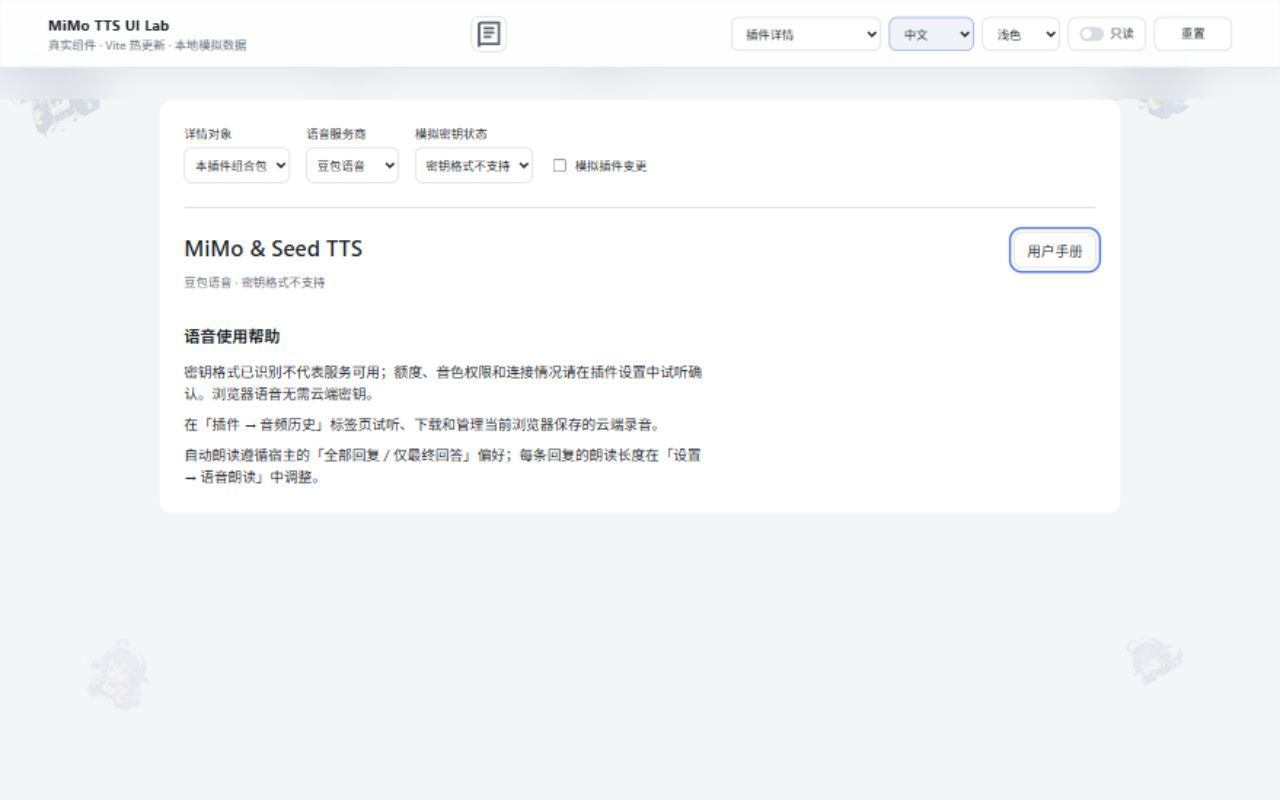
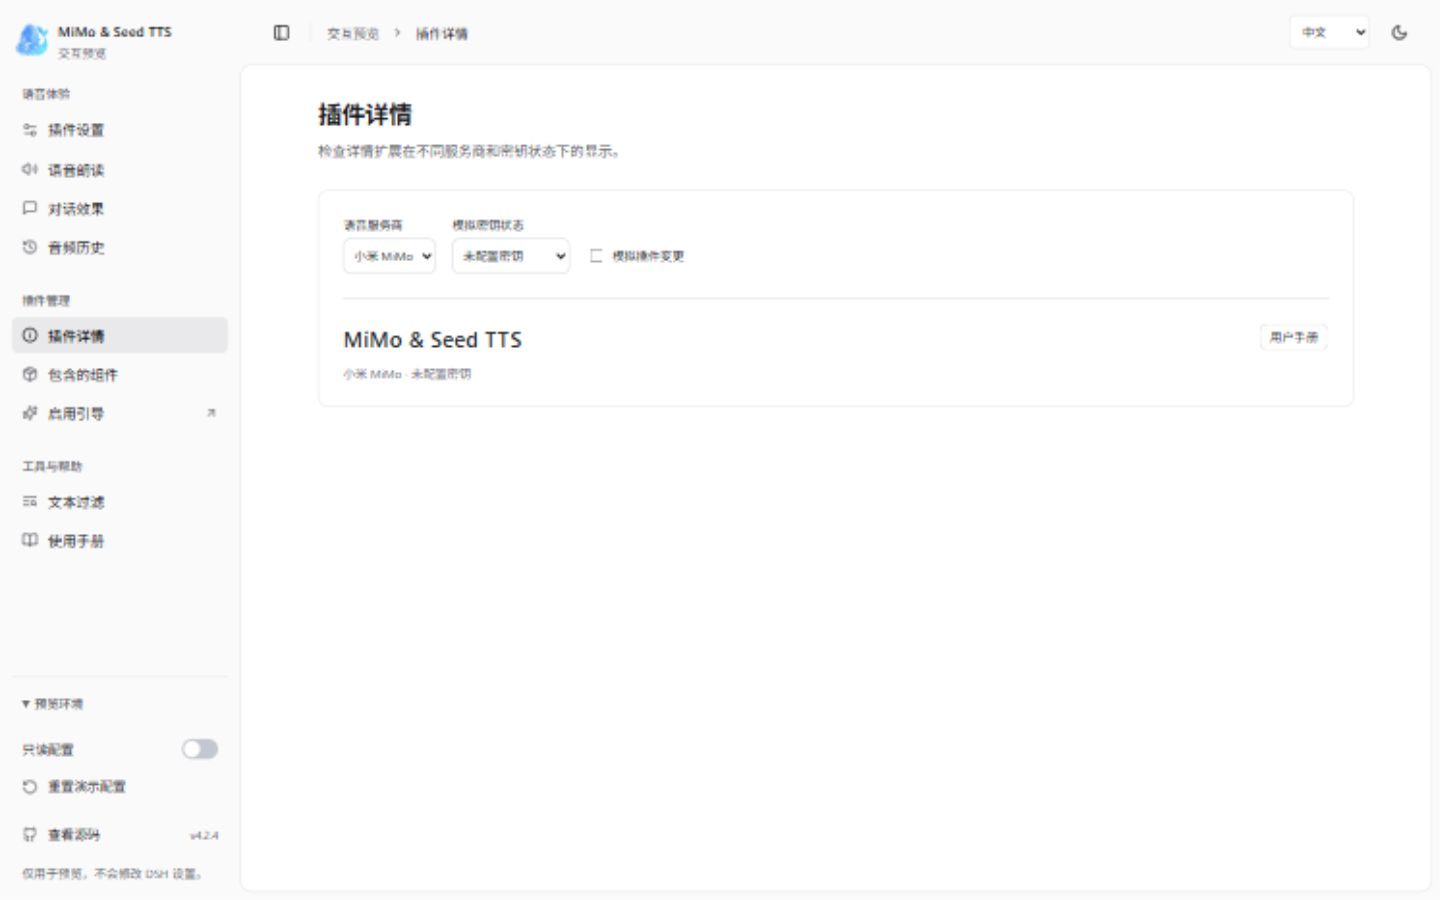
fix(ui): 精简插件详情并直达在线使用手册

diff --git a/tools/preview/preview-copy.ts b/tools/preview/preview-copy.ts
@@ -35,7 +35,7 @@ export const PREVIEW_COPY: Record<PreviewLocale, PreviewCopy> = {
       voice: { title: '语音朗读', description: '宿主设置中的快捷入口，调整音色、语速和自动朗读。' },
       conversation: { title: '对话效果', description: '在一段示例对话中体验消息朗读与播放控制。' },
       history: { title: '音频历史', description: '试听、下载和管理当前浏览器中保存的录音。' },
-      detail: { title: '插件详情', description: '检查详情扩展在不同对象、服务商和密钥状态下的显示。' },
+      detail: { title: '插件详情', description: '检查详情扩展在不同服务商和密钥状态下的显示。' },
       components: { title: '包含的组件', description: '查看语音插件和鲸鱼娘 Agent 预设的组件列表。' },
       filter: { title: '文本过滤', description: '比较原始文本与朗读内容，试用自定义输入或测试样例。' },
       manual: { title: '使用手册', description: '了解各项配置与操作。手册提供中文和英文版本。' },
@@ -53,7 +53,7 @@ export const PREVIEW_COPY: Record<PreviewLocale, PreviewCopy> = {
       voice: { title: 'Voice reading', description: 'Quick voice, speed, and automatic reading controls from host settings.' },
       conversation: { title: 'Conversation', description: 'Try message reading and playback controls in a sample conversation.' },
       history: { title: 'Audio history', description: 'Replay, download, and manage recordings saved in this browser.' },
-      detail: { title: 'Plugin details', description: 'Inspect contributions across subjects, providers, and key states.' },
+      detail: { title: 'Plugin details', description: 'Inspect contributions across providers and key states.' },
       components: { title: 'Included components', description: 'Explore the speech plugin and Whale Girl Agent preset.' },
       filter: { title: 'Text filtering', description: 'Compare source text with spoken text using your input or test samples.' },
       manual: { title: 'User manual', description: 'A guide to settings and controls, available in Chinese and English.' },
@@ -71,7 +71,7 @@ export const PREVIEW_COPY: Record<PreviewLocale, PreviewCopy> = {
       voice: { title: '音声読み上げ', description: 'ホスト設定から音声、速度、自動読み上げを調整します。' },
       conversation: { title: '会話プレビュー', description: 'サンプル会話でメッセージの読み上げと再生操作を試せます。' },
       history: { title: '音声履歴', description: 'このブラウザーに保存した録音を再生、保存、管理します。' },
-      detail: { title: 'プラグイン詳細', description: '対象、サービス、キー状態ごとの詳細表示を確認します。' },
+      detail: { title: 'プラグイン詳細', description: 'サービス、キー状態ごとの詳細表示を確認します。' },
       components: { title: '含まれるコンポーネント', description: '音声プラグインとクジラメイドの Agent プリセットを確認します。' },
       filter: { title: 'テキストフィルター', description: '入力文やサンプルで、元の文章と読み上げ用テキストを比較します。' },
       manual: { title: 'ユーザーマニュアル', description: '設定と操作のガイドです。中国語と英語で提供しています。' },
@@ -89,7 +89,7 @@ export const PREVIEW_COPY: Record<PreviewLocale, PreviewCopy> = {
       voice: { title: 'Lecture vocale', description: 'Réglez la voix, la vitesse et la lecture automatique depuis les paramètres de l’hôte.' },
       conversation: { title: 'Conversation', description: 'Essayez la lecture des messages dans un exemple de conversation.' },
       history: { title: 'Historique audio', description: 'Écoutez, téléchargez et gérez les enregistrements de ce navigateur.' },
-      detail: { title: 'Détails du plugin', description: 'Vérifiez l’affichage selon l’objet, le service et l’état de la clé.' },
+      detail: { title: 'Détails du plugin', description: 'Vérifiez l’affichage selon le service et l’état de la clé.' },
       components: { title: 'Composants inclus', description: 'Découvrez le plugin vocal et le préréglage Agent Whale Girl.' },
       filter: { title: 'Filtrage du texte', description: 'Comparez le texte source et le texte lu avec votre saisie ou les exemples.' },
       manual: { title: 'Manuel utilisateur', description: 'Le guide des réglages et des commandes, disponible en chinois et en anglais.' },

diff --git a/tools/preview/plugin-detail-preview.tsx b/tools/preview/plugin-detail-preview.tsx
@@ -1,6 +1,6 @@
-import { useEffect, useState, useSyncExternalStore } from 'react'
+import { useEffect, useSyncExternalStore } from 'react'
 import type { PluginsSubject } from '@deepseek-ai/dsh-client-ui-plugin-manager/client'
-import { PluginDetailActions, PluginDetailBadge, PluginDetailSection } from '../../src/client/settings/plugin-detail.js'
+import { PluginDetailActions, PluginDetailBadge } from '../../src/client/settings/plugin-detail.js'
 import type { ApiKeyStatus } from '../../src/client/settings/api-key-state.js'
 import type { LocaleKey, Translate } from '../../src/client/localization.js'
 import { useSettingsSnapshot } from '../../src/client/settings/scope.js'
@@ -15,37 +15,23 @@ export const previewPluginChanges = {
 }
 
 const pkg = { name: 'dsh-xiaomi-tts', installed: true, availability: 'available', official: false, enabled: true, rows: [] } as const
-const row = { rowId: 'whale-girl', moduleName: 'dsh-xiaomi-tts/whale-girl', enabled: false }
-const subjects = {
-  target: { kind: 'bundle', pkg },
-  other: { kind: 'bundle', pkg: { ...pkg, name: 'another-plugin' } },
-  row: { kind: 'row', pkg, row },
-  item: { kind: 'item', id: 'official-plugin' },
-} satisfies Record<string, PluginsSubject>
+const subject = { kind: 'bundle', pkg } satisfies PluginsSubject
 
 const statusKeys: Record<ApiKeyStatus, LocaleKey> = {
   loading: 'detail.keyLoading', missing: 'detail.keyMissing', recognized: 'detail.keyRecognized',
   unrecognized: 'detail.keyUnrecognized', unavailable: 'detail.keyUnavailable',
 }
 
-/** A host-shaped harness for the three real detail contributions, with no cloud credentials. */
+/** A host-shaped harness for the real detail contributions, with no cloud credentials. */
 export function PluginDetailPreview({ scope, t }: { scope: PreviewSettingsScope; t: Translate }) {
-  const [target, setTarget] = useState<keyof typeof subjects>('target')
   const activity = useSyncExternalStore(previewPluginChanges.subscribe, previewPluginChanges.getSnapshot)
   const snapshot = useSettingsSnapshot(scope)
   useEffect(() => {
     scope.setKeyStatusPreview('missing')
     return () => { previewPluginChanges.set(false); scope.setKeyStatusPreview(null) }
   }, [scope])
-  const subject = subjects[target]
   return <div className="preview-detail xmimo-ui-scope">
     <div className="preview-detail-controls">
-      <label>{t('detail.previewSubject')}<select value={target} onChange={event => setTarget(event.target.value as typeof target)}>
-        <option value="target">{t('detail.previewTarget')}</option>
-        <option value="other">{t('detail.previewOther')}</option>
-        <option value="row">{t('detail.previewRow')}</option>
-        <option value="item">{t('detail.previewItem')}</option>
-      </select></label>
       <label>{t('settings.provider')}<select value={snapshot.value?.provider ?? 'xiaomi'} disabled={!snapshot.writable || activity} onChange={event => { void scope.set('provider', event.target.value) }}>
         <option value="xiaomi">{t('settings.providerXiaomi')}</option>
         <option value="doubao">{t('settings.providerDoubao')}</option>
@@ -59,11 +45,10 @@ export function PluginDetailPreview({ scope, t }: { scope: PreviewSettingsScope;
       <label className="preview-detail-checkbox"><input type="checkbox" checked={activity} onChange={event => previewPluginChanges.set(event.target.checked)} />{t('detail.previewChanging')}</label>
     </div>
     <header className="preview-detail-header">
-      <div><h2>{target === 'target' ? 'MiMo & Seed TTS' : t(`detail.preview${target === 'other' ? 'Other' : target === 'row' ? 'Row' : 'Item'}`)}</h2>
+      <div><h2>MiMo & Seed TTS</h2>
         <PluginDetailBadge subject={subject} t={t} scope={scope} changes={previewPluginChanges} />
       </div>
       <PluginDetailActions subject={subject} t={t} />
     </header>
-    <PluginDetailSection subject={subject} t={t} />
   </div>
 }

diff --git a/src/client/localization.ts b/src/client/localization.ts
@@ -4,23 +4,14 @@ export const NS = 'xiaomi-mimo-tts'
 
 export const zh = {
   'detail.manual': '用户手册',
-  'detail.helpTitle': '语音使用帮助',
   'detail.keyLoading': '正在检查密钥',
   'detail.keyMissing': '未配置密钥',
   'detail.keyRecognized': '密钥格式已识别',
   'detail.keyUnrecognized': '密钥格式不支持',
   'detail.keyUnavailable': '无法检查密钥',
   'detail.retry': '重新检查',
-  'detail.keyHint': '密钥格式已识别不代表服务可用；额度、音色权限和连接情况请在插件设置中试听确认。浏览器语音无需云端密钥。',
-  'detail.historyHint': '在「插件 → 音频历史」标签页试听、下载和管理当前浏览器保存的云端录音。',
-  'detail.readingHint': '自动朗读遵循宿主的「全部回复 / 仅最终回答」偏好；每条回复的朗读长度在「设置 → 语音朗读」中调整。',
   'detail.preview': '插件详情',
-  'detail.previewTarget': '本插件组合包',
-  'detail.previewOther': '其他组合包',
-  'detail.previewRow': '组件',
-  'detail.previewItem': '官方条目',
   'detail.previewChanging': '模拟插件变更',
-  'detail.previewSubject': '详情对象',
   'detail.previewKey': '模拟密钥状态',
   "plugin.changing": "插件正在变更，语音播放暂时停止。",
   "onboarding.title": "先听一句，轻松开始",
@@ -403,23 +394,14 @@ export const zh = {
 
 export const en: Record<keyof typeof zh, string> = {
   'detail.manual': 'User manual',
-  'detail.helpTitle': 'Speech help',
   'detail.keyLoading': 'Checking key',
   'detail.keyMissing': 'Key not configured',
   'detail.keyRecognized': 'Key format recognized',
   'detail.keyUnrecognized': 'Unsupported key format',
   'detail.keyUnavailable': 'Unable to check key',
   'detail.retry': 'Check again',
-  'detail.keyHint': 'A recognized key format does not confirm service availability. Preview speech in plugin settings to check quota, voice access, and connectivity. Browser speech needs no cloud key.',
-  'detail.historyHint': 'Open Plugins → Audio history to replay, download, and manage cloud recordings saved in this browser.',
-  'detail.readingHint': 'Automatic reading follows the host’s All replies / Final reply only preference. Set the length of each reading in Settings → Voice reading.',
   'detail.preview': 'Plugin details',
-  'detail.previewTarget': 'This bundle',
-  'detail.previewOther': 'Other bundle',
-  'detail.previewRow': 'Component',
-  'detail.previewItem': 'Official item',
   'detail.previewChanging': 'Simulate plugin change',
-  'detail.previewSubject': 'Detail subject',
   'detail.previewKey': 'Simulated key status',
   "plugin.changing": "Plugin changes are in progress. Speech is temporarily paused.",
   "onboarding.title": "Try your first sentence",

diff --git a/src/client/style/plugin-surfaces.css b/src/client/style/plugin-surfaces.css
@@ -1,13 +1,12 @@
 .xmimo-tts-activation-dialog { display: block; width: min(780px, 100%); max-height: 100%; padding: 32px; overflow-y: auto; }
 .xmimo-tts-activation-layout { display: grid; grid-template-columns: 180px minmax(0, 1fr); align-items: center; gap: 32px; }
-.xmimo-tts-activation-art img { display: block; width: 100%; height: auto; object-fit: contain; }
+.xmimo-tts-activation-art img { display: block; width: 100%; height: auto; object-fit: contain; filter: blur(2px); }
 .xmimo-tts-activation-content { display: grid; min-width: 0; gap: 16px; color: var(--xmimo-ui-text); }
 .xmimo-tts-activation-content h2 { margin: 0; padding-inline-end: 12px; font-size: 20px; font-weight: 600; line-height: 1.4; }
 .xmimo-tts-activation-content > p { margin: 0; font-size: 14px; line-height: 1.65; }
-.xmimo-tts-activation-close { position: absolute; inset-block-start: 12px; inset-inline-end: 12px; }
+.xmimo-tts-activation-close { position: absolute; inset-block-start: 12px; inset-inline-end: 12px; width: 28px; padding: 0; color: var(--xmimo-ui-text-muted); }
 .xmimo-tts-activation-feedback p { margin: 0; }
 .xmimo-tts-activation-actions { display: flex; flex-wrap: wrap; align-items: center; gap: 8px; }
-.xmimo-tts-activation-actions button { min-height: 44px; }
 @media (max-width: 560px) {
   .xmimo-tts-activation-dialog { padding: 28px 20px; }
   .xmimo-tts-activation-layout { grid-template-columns: 64px minmax(0, 1fr); align-items: start; gap: 16px; }
@@ -16,19 +15,6 @@
 }
 .xmimo-tts-plugin-status { margin: 0; padding: 16px; color: var(--xmimo-ui-text-muted); }
 
-.xmimo-tts-detail-manual {
-  display: inline-flex;
-  align-items: center;
-  min-height: 36px;
-  padding: 6px 12px;
-  border: 1px solid var(--xmimo-ui-border);
-  border-radius: 8px;
-  color: var(--xmimo-ui-text);
-  font-size: 14px;
-  text-decoration: none;
-}
-.xmimo-tts-detail-manual:hover { background: var(--xmimo-ui-hover); }
-.xmimo-tts-detail-manual:focus-visible { outline: var(--xmimo-ui-focus); outline-offset: 3px; }
 .xmimo-tts-detail-status {
   display: inline-flex;
   flex-wrap: wrap;
@@ -40,10 +26,6 @@
   line-height: 1.5;
   overflow-wrap: anywhere;
 }
-.xmimo-tts-detail-help { color: var(--xmimo-ui-text); font-size: 14px; line-height: 1.6; }
-.xmimo-tts-detail-help h2 { margin: 0 0 12px; font-size: 16px; font-weight: 600; }
-.xmimo-tts-detail-help p { margin: 8px 0 0; max-width: 70ch; }
 @media (pointer: coarse) {
-  .xmimo-tts-detail-manual,
   .xmimo-tts-detail-status button { min-height: 44px; }
 }

diff --git a/src/client/index.tsx b/src/client/index.tsx
@@ -19,7 +19,7 @@ import { XiaomiMimoTtsPcmService } from './playback/pcm-play-service.js'
 import { onTtsCredentialsSaved } from './conversation/api-key-status.js'
 import { SettingsCard } from './settings/card.js'
 import { apiKeyStatusStore, bindApiKeyStatus } from './settings/api-key-status-store.js'
-import { PluginDetailActions, PluginDetailBadge, PluginDetailSection } from './settings/plugin-detail.js'
+import { PluginDetailActions, PluginDetailBadge } from './settings/plugin-detail.js'
 import { ActivationGuide } from './settings/activation-guide.js'
 import { AudioHistoryTab } from './history/audio-history-tab.js'
 import { PluginAudioFocus, observePluginActivity } from './plugin-activity.js'
@@ -58,7 +58,7 @@ function formatStartupError(error: unknown): string {
 
 function registerSlotContribution(
   ctx: Context,
-  name: 'conversation.input.dock' | 'conversation.chat.assistant-actions' | 'plugins.bundle.config' | 'settings.section' | 'plugins.bundle.activation' | 'plugins.tab' | 'plugins.detail.actions' | 'plugins.detail.badge' | 'plugins.detail.section',
+  name: 'conversation.input.dock' | 'conversation.chat.assistant-actions' | 'plugins.bundle.config' | 'settings.section' | 'plugins.bundle.activation' | 'plugins.tab' | 'plugins.detail.actions' | 'plugins.detail.badge',
   register: () => (() => void) | Iterable<() => void>,
 ): void {
   ctx.effect(() => {
@@ -262,13 +262,6 @@ export function apply(ctx: Context): void {
     locale: NS,
     inject: () => ({ t, scope, changes }),
   }, PluginDetailBadge))
-
-  registerSlotContribution(ctx, 'plugins.detail.section', () => ctx.slots.register({
-    name: 'plugins.detail.section',
-    id: 'xiaomi-mimo-tts.help',
-    locale: NS,
-    inject: () => ({ t }),
-  }, PluginDetailSection))
 
   registerSlotContribution(ctx, 'plugins.bundle.config', () => ctx.slots.register({
     name: 'plugins.bundle.config',

diff --git a/src/client/locales/ja.ts b/src/client/locales/ja.ts
@@ -2,23 +2,14 @@ import type { LocaleKey } from '../localization.js'
 
 export const ja: Record<LocaleKey, string> = {
   'detail.manual': 'ユーザーマニュアル',
-  'detail.helpTitle': '読み上げの使い方',
   'detail.keyLoading': 'キーを確認中',
   'detail.keyMissing': 'キー未設定',
   'detail.keyRecognized': 'キー形式を認識しました',
   'detail.keyUnrecognized': '未対応のキー形式',
   'detail.keyUnavailable': 'キーを確認できません',
   'detail.retry': '再確認',
-  'detail.keyHint': 'キー形式の認識はサービスの利用可否を保証しません。利用枠、音声へのアクセス権、接続はプラグイン設定で試聴して確認してください。ブラウザー音声にはクラウドキーは不要です。',
-  'detail.historyHint': '「プラグイン → 音声履歴」タブで、このブラウザーに保存されたクラウド音声を再生、ダウンロード、管理できます。',
-  'detail.readingHint': '自動読み上げはホストの「すべての返信 / 最終回答のみ」設定に従います。各返信の読み上げ範囲は「設定 → 音声読み上げ」で変更できます。',
   'detail.preview': 'プラグイン詳細',
-  'detail.previewTarget': 'このバンドル',
-  'detail.previewOther': '別のバンドル',
-  'detail.previewRow': 'コンポーネント',
-  'detail.previewItem': '公式項目',
   'detail.previewChanging': 'プラグインの変更を再現',
-  'detail.previewSubject': '詳細の対象',
   'detail.previewKey': 'キー状態の再現',
   'plugin.changing': 'プラグインの変更中は、音声再生を一時停止します。',
   'onboarding.title': 'まずは一文、聴いてみましょう',

diff --git a/src/client/locales/fr.ts b/src/client/locales/fr.ts
@@ -2,23 +2,14 @@ import type { LocaleKey } from '../localization.js'
 
 export const fr: Record<LocaleKey, string> = {
   'detail.manual': 'Manuel utilisateur',
-  'detail.helpTitle': 'Aide à la lecture vocale',
   'detail.keyLoading': 'Vérification de la clé',
   'detail.keyMissing': 'Clé non configurée',
   'detail.keyRecognized': 'Format de clé reconnu',
   'detail.keyUnrecognized': 'Format de clé non pris en charge',
   'detail.keyUnavailable': 'Vérification de la clé impossible',
   'detail.retry': 'Réessayer',
-  'detail.keyHint': 'Un format de clé reconnu ne garantit pas la disponibilité du service. Testez la voix dans les réglages du plugin pour vérifier le quota, les droits et la connexion. La voix du navigateur ne nécessite aucune clé cloud.',
-  'detail.historyHint': 'Ouvrez Plugins → Historique audio pour écouter, télécharger et gérer les enregistrements cloud conservés dans ce navigateur.',
-  'detail.readingHint': 'La lecture automatique suit le choix de l’hôte : toutes les réponses ou réponse finale uniquement. Réglez la longueur de chaque lecture dans Paramètres → Lecture vocale.',
   'detail.preview': 'Détails du plugin',
-  'detail.previewTarget': 'Ce bundle',
-  'detail.previewOther': 'Autre bundle',
-  'detail.previewRow': 'Composant',
-  'detail.previewItem': 'Élément officiel',
   'detail.previewChanging': 'Simuler une modification du plugin',
-  'detail.previewSubject': 'Objet des détails',
   'detail.previewKey': 'État de clé simulé',
   'plugin.changing': 'Modification du plugin en cours. La lecture vocale est suspendue.',
   'onboarding.title': 'Écoutez votre première phrase',

diff --git a/src/client/settings/plugin-detail.tsx b/src/client/settings/plugin-detail.tsx
@@ -28,7 +28,7 @@ function isTtsBundle({ subject }: PluginDetailProps): boolean {
 
 export function PluginDetailActions(props: DetailProps): ReactElement | null {
   if (!isTtsBundle(props)) return null
-  return <a className="xmimo-ui-scope xmimo-tts-detail-manual" href={MANUAL_URL} target="_blank" rel="noopener noreferrer">{props.t('detail.manual')}</a>
+  return <Button variant="outline" size="sm" onClick={() => window.open(MANUAL_URL, '_blank', 'noopener,noreferrer')}>{props.t('detail.manual')}</Button>
 }
 
 const STATUS_KEYS: Record<ApiKeyStatus, LocaleKey> = {
@@ -56,14 +56,4 @@ function KeyBadge({ scope, t, changes = IDLE_PLUGIN_CHANGES }: Omit<DetailBadgeP
       ? <Button type="button" variant="toolbar" size="sm" onClick={apiKeyStatusStore.invalidate}>{t('detail.retry')}</Button>
       : null}
   </span>
-}
-
-export function PluginDetailSection(props: DetailProps): ReactElement | null {
-  if (!isTtsBundle(props)) return null
-  return <section className="xmimo-ui-scope xmimo-tts-detail-help" aria-label={props.t('detail.helpTitle')}>
-    <h2>{props.t('detail.helpTitle')}</h2>
-    <p>{props.t('detail.keyHint')}</p>
-    <p>{props.t('detail.historyHint')}</p>
-    <p>{props.t('detail.readingHint')}</p>
-  </section>
 }

diff --git a/tools/preview/preview.css b/tools/preview/preview.css
@@ -165,7 +165,7 @@
 .preview-detail-controls label { display: grid; gap: 6px; font-size: 12px; color: var(--xmimo-ui-text); }
 .preview-detail-controls select { max-width: 100%; min-height: 36px; padding: 6px; border: 1px solid var(--xmimo-ui-border); border-radius: 8px; background: var(--xmimo-ui-surface); color: var(--xmimo-ui-text); font: inherit; }
 .preview-detail-controls .preview-detail-checkbox { display: flex; align-items: center; min-height: 36px; }
-.preview-detail-header { display: flex; flex-wrap: wrap; align-items: start; justify-content: space-between; gap: 16px; margin-bottom: 32px; }
+.preview-detail-header { display: flex; flex-wrap: wrap; align-items: start; justify-content: space-between; gap: 16px; }
 .preview-detail-header h2 { margin: 0 0 8px; font-size: 22px; font-weight: 600; color: var(--xmimo-ui-text); }
 @media (max-width: 560px) {
   .preview-detail { padding: 16px; }

diff --git a/src/client/settings/plugin-links.ts b/src/client/settings/plugin-links.ts
@@ -6,4 +6,4 @@
  */
 
 export const SOURCE_URL = 'https://github.com/ppy-web/dsh-plugin-xiaomi-mimo-tts'
-export const MANUAL_URL = `${SOURCE_URL}/blob/main/handbook.md`
+export const MANUAL_URL = 'https://ppy-web.github.io/dsh-plugin-xiaomi-mimo-tts/#manual'

diff --git a/tools/doc/plugin-detail-extension-plan.md b/tools/doc/plugin-detail-extension-plan.md
@@ -91,3 +91,12 @@
 
 ![桌面预览导航](screenshots/preview-shell-desktop.png)
 ![手机预览导航](screenshots/preview-shell-mobile-nav.png)
+
+## 详情页精简
+
+2026-10-29：按用户反馈，独立预览固定展示本插件，移除「详情对象」选择。真实插件和预览同时移除「语音使用帮助」区域，撤销 `plugins.detail.section` 注册并清理四语言无用文案。密钥状态和失败重试继续保留。
+
+「用户手册」直接复用宿主 `Button` 的 `outline` / `sm` 样式及交互，不再维护自绘链接按钮。浏览器已验证原网站首页跳转，模拟插件变更时入口仍可用，1440px 桌面及 390px 深浅主题均无横向溢出；280 项测试和预览构建通过。随后按用户要求，将地址补为 `https://ppy-web.github.io/dsh-plugin-xiaomi-mimo-tts/#manual`，直接进入手册路由，并同步测试预期和手册说明；用户已确认功能可用，此链接调整未再执行验证。
+
+![精简后的详情页](screenshots/plugin-detail-desktop.png)
+![精简后的手机详情页](screenshots/plugin-detail-mobile.png)

diff --git a/handbook.md b/handbook.md
@@ -29,7 +29,7 @@
 
 ## 插件详情页
 
-在宿主中打开本插件的组合包详情，可通过「用户手册」打开本手册，并查看当前已保存服务商的密钥格式状态与语音使用帮助。组件详情、其他插件和官方条目不显示这些扩展。
+在宿主中打开本插件的组合包详情，可通过「用户手册」直接打开[在线使用手册](https://ppy-web.github.io/dsh-plugin-xiaomi-mimo-tts/#manual)。该按钮沿用宿主按钮样式；详情同时显示当前已保存服务商的密钥格式状态。组件详情、其他插件和官方条目不显示这些扩展。
 
 密钥状态区分检查中、未配置、格式已识别、格式不支持和无法检查。**格式已识别仅表示密钥格式受支持**，不代表额度、音色权限或网络连接正常；请在插件设置中试听确认。无法检查时可「重新检查」。浏览器语音无需云端密钥。
 
